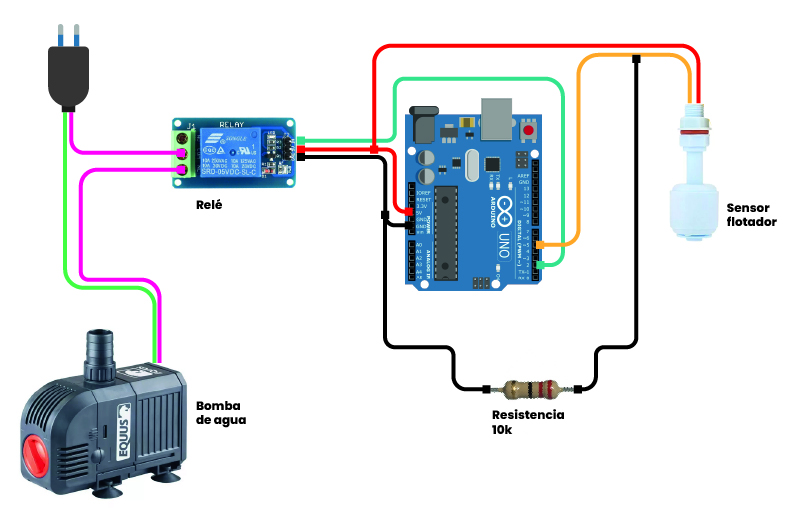
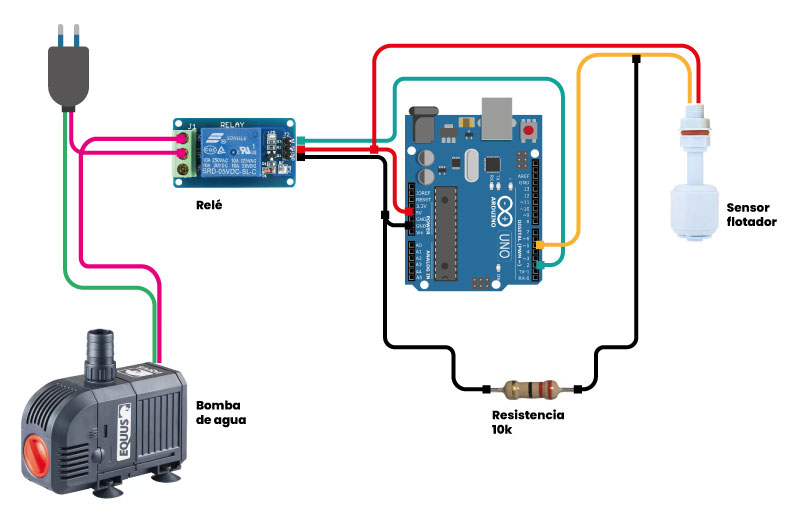
PI_ELECT_ENSAYO

diff --git a/docs/proyecto/01_electronicos.md b/docs/proyecto/01_electronicos.md
@@ -25,4 +25,16 @@ Antes de usar la bomba de agua nueva, decidí realizar una prueba de viabilidad 
 
 ![Prueba con luz](../images/PI_IMG/electronicos/03_prueba.webp)
 
+----------
 
+### **Ensayo con Lámpara de Luz**
+
+Finalmente, tras varios intentos, logré conseguir en el mercado local un relé de 6 pines que me permitió conectarlo de acuerdo con el esquema original. Realicé una prueba utilizando una lámpara para verificar el funcionamiento del circuito.
+
+![rele 6 pines](<../images/PI_IMG/electronicos/relé 6 pines.jpg>)
+
+Aspectos pendientes incluyen definir cómo se alimentará la placa una vez completado el prototipo y, posiblemente, agregar en el código un retraso (delay) en el apagado para evitar un corte abrupto de energía.
+
+![Ensayo luz](../images/PI_IMG/electronicos/ensayo_luz.gif)
+
+----------
